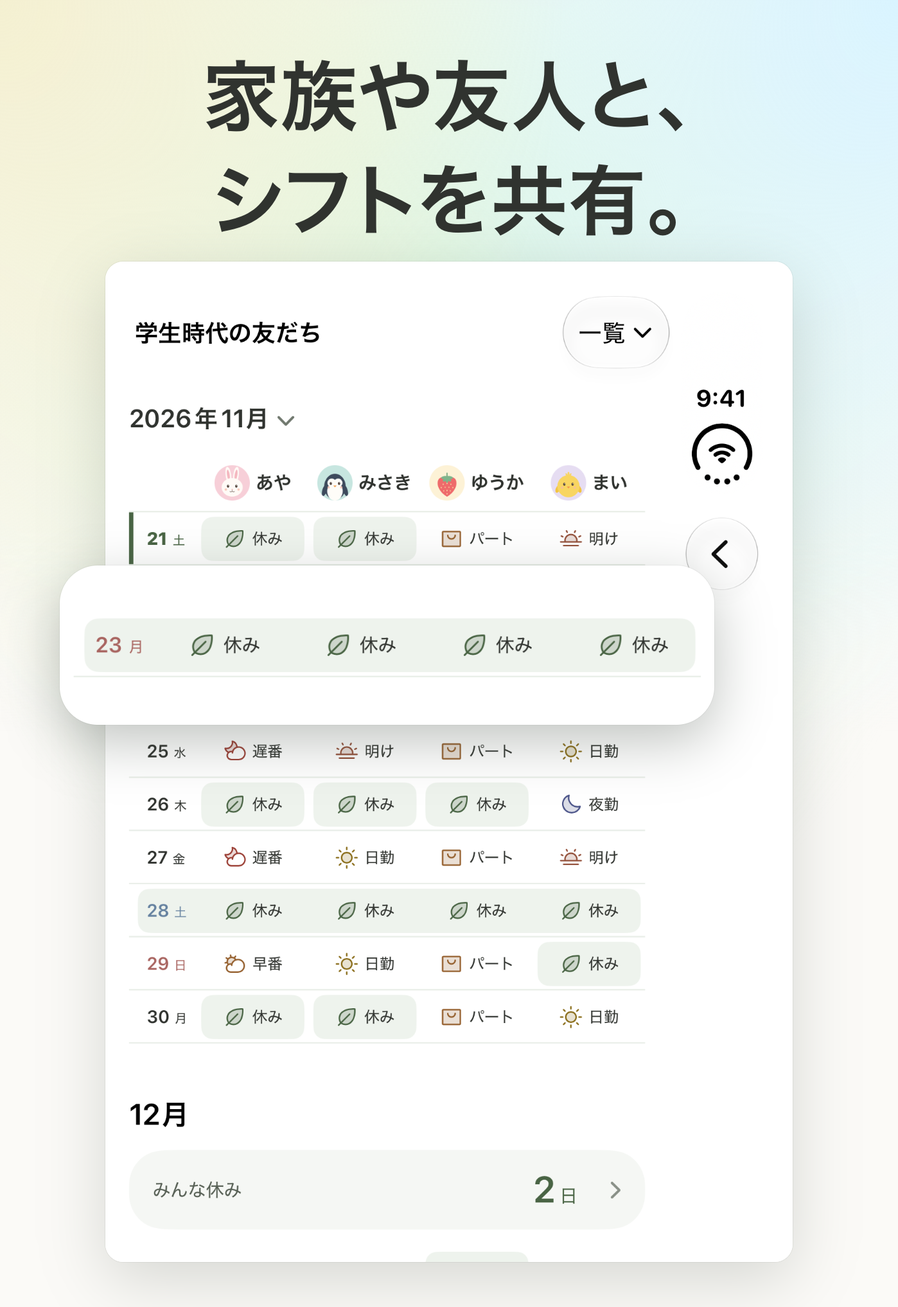
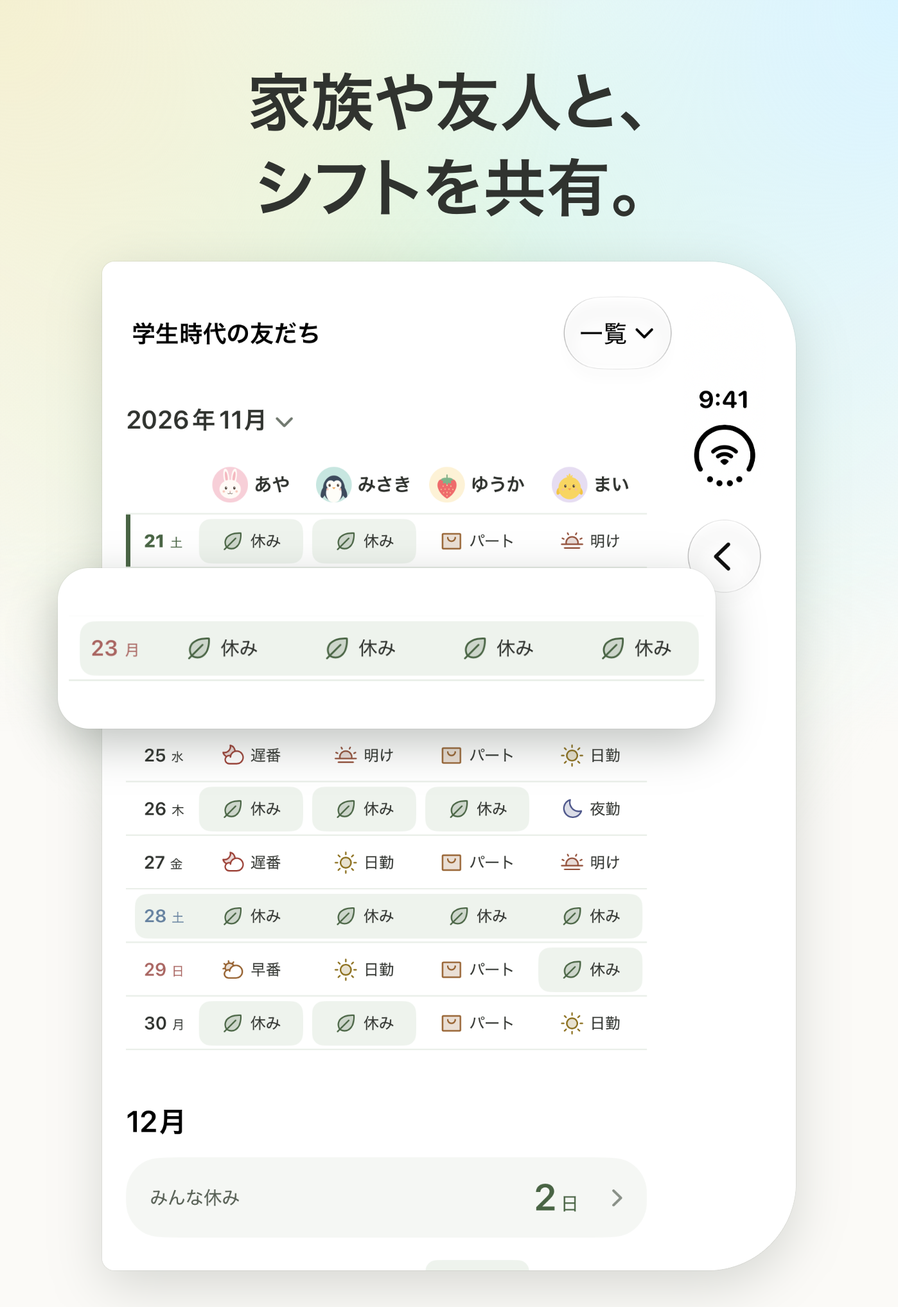
Store: a picture wider than 9:16 takes its unit from its height, and the Duo's outer display its own corners
iPhone Duo's outer display's pictures (1398×2034) took their unit from
their width, so the headline and the tiles' words outgrew a picture far
squatter than a phone's and ran off its side (07, 08). Every picture
wider than 9:16 is now laid out in the units of a 9:16 picture as tall,
as one on its side already was. The outer display is drawn with its own
corners, barely round at the hinge's side and round at the other, fit to
simctl's mask of it.

diff --git a/packages/prototype/src/lib/store-shots.ts b/packages/prototype/src/lib/store-shots.ts
@@ -31,7 +31,8 @@ import type { PresetShift } from "./design-patterns";
 // a part of it stands on a page beside others, with no room to grow.
 // `widgetRow` is how tall a Home Screen's cell is in its widths, by the
 // platform's small widget (Android's SMALL, WidgetParts.kt). `corner` is how round a screen's corners are drawn, in
-// the picture's units (unitOf): an iPhone's and an iPad's own, which the
+// the picture's units (unitOf), one for all four or each from the top
+// leading one around as CSS's border-radius takes them: an iPhone's and an iPad's own, which the
 // status bar keeps clear of, and for Android a card's, as the emulator's
 // screen is square and its clock stands near the corner. A tablet's screen
 // has far smaller corners for its size than a phone's, and the emulator's
@@ -39,7 +40,9 @@ import type { PresetShift } from "./design-patterns";
 // drawn at a tablet's, they clear it, two screens of a pair included.
 // iPhone Duo's outer display has pictures of its own (#1224), folded,
 // upright as a phone is, its bars down its side, the size the App Store
-// asks of it, the display's own pixels. Its inner one has none yet:
+// asks of it, the display's own pixels, its corners its own: barely round
+// at the hinge's side, round at the other (fit to `simctl io screenshot
+// --mask=alpha` of it). Its inner one has none yet:
 // XCUITest cannot drive a Duo open in Xcode 27 (#1267).
 export const STORES = {
   android: {
@@ -62,7 +65,7 @@ export const STORES = {
   },
   "duo-outer": {
     callouts: true,
-    corner: 2,
+    corner: [1.7, 12, 12, 1.7],
     height: 2034,
     screen: { height: 2034, width: 1398 },
     wall: [],
@@ -96,17 +99,18 @@ export type StoreId = keyof typeof STORES;
 
 // How long a picture's unit is, in its pixels, every length of a store's
 // picture but the headline's room being in units: a hundredth of its
-// width, or for a picture on its side, a tablet's, of the width an upright
-// picture as tall would have at 9:16, Google Play's, so that a headline,
-// the room around a screen and the widgets on the wall are as large for
-// its height as in a phone's picture.
+// width, or for a picture wider than 9:16, Google Play's (a tablet's on
+// its side, iPhone Duo's outer display's), of the width a picture as tall
+// would have at 9:16, so that a headline, the room around a screen, the
+// tiles' words and the widgets on the wall are as large for its height as
+// in a phone's picture.
 export const unitOf = ({
   height,
   width,
 }: {
   height: number;
   width: number;
-}): number => (width > height ? (height * 9) / 16 : width) / 100;
+}): number => Math.min(width, (height * 9) / 16) / 100;
 
 // How much of a picture's height its headline may take, with the room
 // around it: Google Play asks that a tagline take no more than about a

diff --git a/apps/design/src/routes/_tool/[_]render/store-shot.tsx b/apps/design/src/routes/_tool/[_]render/store-shot.tsx
@@ -122,6 +122,12 @@ const tilesLie = (
   return { gap: Math.min(TILES.most, left / gaps), wide };
 };
 
+// A store's screen's corners (STORES' `corner`) as CSS's border-radius.
+const radiusOf = (corner: number | readonly number[]) =>
+  (typeof corner === "number" ? [corner] : corner)
+    .map((one) => `calc(var(--u) * ${one})`)
+    .join(" ");
+
 // How wide each of a pair's screens is, in hundredths of the picture's
 // width: upright, and on its side, where two screens on their side take
 // less of its width to lie over each other's corner as an upright pair
@@ -174,9 +180,9 @@ const styles = {
     position: "relative",
   }),
   // A screen as the phone shows it: its corners rounded as its store's
-  // are (--corner), nothing around it.
+  // are (--corner, radiusOf), nothing around it.
   screen: css({
-    borderRadius: "calc(var(--u) * var(--corner))",
+    borderRadius: "var(--corner)",
     boxShadow:
       "0 calc(var(--u) * 2) calc(var(--u) * 7) rgba(60, 70, 60, 0.2), 0 0 0 1px rgba(60, 70, 60, 0.08)",
     display: "block",
@@ -275,7 +281,7 @@ function StoreShotPage() {
       className={styles.root}
       data-store-shot
       style={{
-        "--corner": corner,
+        "--corner": radiusOf(corner),
         "--headline": `${height * HEADLINE_SHARE}px`,
         "--u": `${unitOf({ height, width })}px`,
         height,
@@ -717,7 +723,7 @@ function CardPicturePage({
       className={styles.root}
       data-store-shot
       style={{
-        "--corner": STORES[picture.store].corner,
+        "--corner": radiusOf(STORES[picture.store].corner),
         background: `#${ground}`,
         height,
         width,

diff --git a/AGENTS.md b/AGENTS.md
@@ -14,7 +14,7 @@ Pochical is a monorepo: native SwiftUI (`apps/ios`) and Jetpack Compose (`apps/a
   - ライセンス's list of libraries is generated by each app's build, never checked in (spec/calendar.md, ライセンス): on iOS by LicenseList's build plugin from the resolved Swift packages' checkouts (`PLL_SOURCE_PACKAGES_PATH` names them when `-clonedSourcePackagesDirPath` moves them, as CI's `ios` job does), on Android by AboutLibraries' Gradle plugin into each variant's `res/raw/aboutlibraries.json`, with what the app carries besides its dependencies in `apps/android/app/aboutlibraries/libraries`.
   - Icons: the marks' paths from Phosphor via `pnpm --dir design icon:marks`; the iOS app icons and the widgets' `PeekingPoodle` via `pnpm --dir packages/prototype icon:ios`, and Android's launcher icon (its `mipmap` layers and the background color) and the Play listing's 512-pixel icon (`apps/android/app/src/main/ic_launcher-playstore.png`) and the widgets' `widget_poodle` via `icon:android`, both painting with `scripts/app-icon.ts` as the site icon's `icon:site` does.
   - try's installable app (`apps/try/public/app`): the icons, iOS's launch images and the web app manifest via `pnpm --dir apps/try icon:app` (`scripts/app-assets.ts`), and the manifest's screenshots, the screens `src/lib/app-screenshots.ts` names, via `image:screens`, which photographs the app on a dev server of its own as apps/design's `image:share` photographs the share image, both through `@pochical/prototype`'s `scripts/photograph.ts`. A change to that list runs both.
-  - The stores' pictures (`store/screenshots/<store>`, Google Play's feature graphic, `store/feature-graphic.png`, and the App Store's product page header, `store/product-page-header.png`): the shots, their headlines and each store's size in `@pochical/prototype`'s `lib/store-shots.ts` → `ANDROID_SERIAL=emulator-<port> mise run store:screenshots`. It photographs the real apps' screens into `.build/store-screenshots/<store>`, under the same names on both platforms, each against a server it starts and `tools/store-screenshots/seed.ts` seeds with two groups made by one piece, the coworkers' and a group of friends, each person's photo one of the faces' drawings (`design/src/drawings`) (`store:shots:android`: `StoreScreenshots` on the running emulator `ANDROID_SERIAL` names, never a phone, the widgets drawn there by themselves from the app's own days; `store:shots:ios`: `StoreScreenshotTests` in a simulator of its own and no other, `pochical-store`, an iPhone 18 Pro Max, the run failing when a simulator of the name is another device, the widgets put on its Home Screen; and for a tablet's pictures the same shots on a tablet on its side, where its wide layouts show (#1226): `store:shots:ipad` in its own `pochical-store-ipad`, an iPad Pro 13-inch (M5), the tab bar at the top as the app opens, and `store:shots:android-tablet` on the running tablet's emulator `ANDROID_SERIAL` names, each failing on a device of the other kind, into `.build/store-screenshots/ipad` and `android-tablet`; and for iPhone Duo's outer display (#1224) `store:shots:duo` in its own `pochical-store-duo`, an iPhone Duo, folded with devicehubctl (`tools/store-screenshots/fold.sh`, built from a pinned commit into `.build`, until simctl or XCTest can fold a Duo, #1267; the app the run is started from needs Accessibility access and the screen unlocked, and DeviceHub comes to the front), upright with its bars down its side, into `duo-outer`, its inner display having none until XCUITest can drive a Duo open, #1267), then draws each on the site's sky under its headline (`store:images`: apps/design's `image:store`, which photographs `/_render/store-shot` as `image:share` does the share image, for each store whose screens are there). The seed runs beside the capture: it makes the groups, writes their invitations, and writes the coworkers' chat only once the person photographed has joined, so the chat says every joining above its lines, and more lines than a screen holds keep them out of the picture, among them two photographs sent at once (`tools/store-screenshots/photos`, whose README names where each is from; a JPEG put there under the same name is sent in its place); the capture reads the chat to its latest line, opens it again, and photographs it there. The status bar says 9:41 in every picture, whenever the run is, and the chat's lines the time they were written; Android's is SystemUI's demo, entered once the emulator is on its Wi-Fi, as one entered in the seconds after a boot shows a second Wi-Fi icon to its end. Every look is set through the app's own settings: a raw file or folder named `-sumi` is in black and white (テーマ 墨, シフトの色 ワントーン, シフトの見た目 線, 休みの見せ方 印だけ, 色をつける日 off; the month's own picture with 月と曜日 英語, the widgets 日本語), one named `-letters` has the shifts as letters (シフトの見た目 文字, in the テーマ the app starts in), the rest as the app starts. The wall of widgets is placed by hand (the shot's `tiles`: which widget, in which look, in which cell of `WALL`; a store's own over them, its `wall`, an iPad's extra large カレンダー), from every kind at each size it has for a Home Screen but one that takes a whole page of it (the iPhone's upright extra large), those that can be set to someone set to a person and to the group too, and those today's shift changes on each of the sample's (a day off, 日勤, 夜勤, 明け: the capture enters it for today in ポチポチ入力 and photographs them in both looks before it enters the next), in the app's look and in 墨: medium and large widgets carry it, small ones are its accents. 次の休み counting to a day off, 次の休み on a day off and いまのシフト are marked `whole` and stand together where the eye lands, whole in each store's picture and in what every picture drawn from the wall shows on every device; no picture is beside itself. Entering a shift takes a day's own hours off it (早出, 残業) and 夜勤 gives the day after its 明け, and nothing is put back: every picture of the month is taken before the widgets, ポチポチ入力's among them, whose days taken out are entered again by the tray's keys and the month checked to say what it did before; the widgets' shifts go in the order that leaves each the days it shows as the sample has them. いまのシフト draws its ring only while a shift is on, so after the widgets a run enters one of the sample's shifts that is on at that hour and photographs that widget again, in the app's look, once it says the shift is on (before 9:00 that shift is the day before's 夜勤, which the month's page has no day for on the 1st: the run is not started then, and says to run from 9:00). A widget is photographed once it says the days it is to show (iOS; Android draws it from what the app holds then), and a run fails when a widget asked for is not there, when the seed's last checks fail, when the port already has a server, or when the emulator's settings are not all put back. The friends' group is joined as まい with ひよこ picked for a face, in place of the drawing a new person is given at random, and the coworkers' as 佐藤, there alone. A shot of one screen may lift the part its headline is about (its `callout`): the capture measures that part by its element, and every piece of the screen that says something, into `<raw>.json` (on Android as Compose lays them out, the accessibility tree giving a button smaller than a finger the larger place it takes touches in), and the picture draws the part again, larger (as large as keeps a row as wide as the screen inside the picture and the card as far over the phone's foot as the phone is over the picture's, 1.35 times at most), on a card over the phone that starts where the part does and grows down from there, what leads to the part left in sight over it; a piece the card would lie over a part of, on any side, it takes in whole, so nothing shows cut beside it, and the part is drawn in the card's middle, whole lines of the screen with their own room. The friends' table lifts the days everyone is off, the chat its poll's line with the line that asks for it, 端末カレンダーに追加 its 自動で反映. The details' shot and the cares' are three tiles each, within where a phone is under the headline, the room they leave shared evenly between them up to the most a gap may be and the rest left over and under them alike, a tile a card of the picture's with room inside it, on the ground of what it holds: a part of a screen its platform's UI test cuts at whole rows, from the top of one of the screen's own pieces to the foot of another, as wide as the page or the month's week it is of (the screen on a phone), or pieces the page draws from the app's own marks, larger than a screen has them, with words and lines of the picture's that say what happens (the shot's `pieces`). Each tile holds only what makes its point. A part's file is named for what it is (`tile-<what>.png`), not for the shot it is in. The details', how a roster itself is: two weeks of 繰り返しを直す on a fixed cycle, a run's last step but one as it changes the job, to the ready-made 当番・非番・休み from next month's 1st, 当番 and 休み then named 当務 and 週休; the first week of a page of a シフトの期間 from the 15th under its heading, set in 設定 and put back; and a day of 早出 and one of 残業 with their marks' corners named, drawn. The cares', what the app does for the person: 夜勤's key pressed and the two days it fills, the second the app's doing, drawn; リマインド's reminder of the evening before, the next notification as its page draws it, before anything is changed; and グループの設定's rows of a group with an end, 忘年会, made in グループを作る with the day 終了日をつける offers, a run's very last step as it leaves a group. The same run draws the cards the site's top page ends on, the list `CARD_PICTURES`: each a picture of raw captures laid where the list says (the two looks of the month in their frames, 自動で反映 with its note and button, two weeks of 繰り返し, the evening before's reminder), into `packages/prototype/src/assets`. The wall is drawn in other pictures too, the list `WALL_PICTURES`: each its name, size, file, the store whose widgets it shows, where the wall lies in it (`lie`, as in a store's picture without), the line it carries (`line`, the wall clearing to the sky around it, none without) and the part of it every device shows (`safe`, which holds the line and the widgets marked `whole`, anywhere without). The App Store's product page header is the first: the wall across 3840×1646, the site's line beside the three widgets, both inside the art safe area measured from Apple's template. Google Play's feature graphic is the second, of Android's widgets: the wall across 1024×500 at twice the header's size for its width, so a widget's shapes read as narrow as a phone shows it, the line and the three widgets clear of 8 hundredths of each side, which Play cuts or covers in places. A picture on its side, a tablet's, is laid out in the units of an upright picture as tall (`unitOf`), so its headline and the room around its screen are as large for its height as a phone's, its tiles as wide as its screen at most, its wall laid side by side as often as covers it, the widgets marked `whole` those of the copy in the middle, and no callout: its screen is drawn large enough to read, and a part of it stands on a page beside others with no room to grow. A change to that page or to a headline runs `store:images` alone, the screens still in `.build`; a change to an app's screens runs its `store:shots:*` and `store:images`.
+  - The stores' pictures (`store/screenshots/<store>`, Google Play's feature graphic, `store/feature-graphic.png`, and the App Store's product page header, `store/product-page-header.png`): the shots, their headlines and each store's size in `@pochical/prototype`'s `lib/store-shots.ts` → `ANDROID_SERIAL=emulator-<port> mise run store:screenshots`. It photographs the real apps' screens into `.build/store-screenshots/<store>`, under the same names on both platforms, each against a server it starts and `tools/store-screenshots/seed.ts` seeds with two groups made by one piece, the coworkers' and a group of friends, each person's photo one of the faces' drawings (`design/src/drawings`) (`store:shots:android`: `StoreScreenshots` on the running emulator `ANDROID_SERIAL` names, never a phone, the widgets drawn there by themselves from the app's own days; `store:shots:ios`: `StoreScreenshotTests` in a simulator of its own and no other, `pochical-store`, an iPhone 18 Pro Max, the run failing when a simulator of the name is another device, the widgets put on its Home Screen; and for a tablet's pictures the same shots on a tablet on its side, where its wide layouts show (#1226): `store:shots:ipad` in its own `pochical-store-ipad`, an iPad Pro 13-inch (M5), the tab bar at the top as the app opens, and `store:shots:android-tablet` on the running tablet's emulator `ANDROID_SERIAL` names, each failing on a device of the other kind, into `.build/store-screenshots/ipad` and `android-tablet`; and for iPhone Duo's outer display (#1224) `store:shots:duo` in its own `pochical-store-duo`, an iPhone Duo, folded with devicehubctl (`tools/store-screenshots/fold.sh`, built from a pinned commit into `.build`, until simctl or XCTest can fold a Duo, #1267; the app the run is started from needs Accessibility access and the screen unlocked, and DeviceHub comes to the front), upright with its bars down its side, into `duo-outer`, its inner display having none until XCUITest can drive a Duo open, #1267), then draws each on the site's sky under its headline (`store:images`: apps/design's `image:store`, which photographs `/_render/store-shot` as `image:share` does the share image, for each store whose screens are there). The seed runs beside the capture: it makes the groups, writes their invitations, and writes the coworkers' chat only once the person photographed has joined, so the chat says every joining above its lines, and more lines than a screen holds keep them out of the picture, among them two photographs sent at once (`tools/store-screenshots/photos`, whose README names where each is from; a JPEG put there under the same name is sent in its place); the capture reads the chat to its latest line, opens it again, and photographs it there. The status bar says 9:41 in every picture, whenever the run is, and the chat's lines the time they were written; Android's is SystemUI's demo, entered once the emulator is on its Wi-Fi, as one entered in the seconds after a boot shows a second Wi-Fi icon to its end. Every look is set through the app's own settings: a raw file or folder named `-sumi` is in black and white (テーマ 墨, シフトの色 ワントーン, シフトの見た目 線, 休みの見せ方 印だけ, 色をつける日 off; the month's own picture with 月と曜日 英語, the widgets 日本語), one named `-letters` has the shifts as letters (シフトの見た目 文字, in the テーマ the app starts in), the rest as the app starts. The wall of widgets is placed by hand (the shot's `tiles`: which widget, in which look, in which cell of `WALL`; a store's own over them, its `wall`, an iPad's extra large カレンダー), from every kind at each size it has for a Home Screen but one that takes a whole page of it (the iPhone's upright extra large), those that can be set to someone set to a person and to the group too, and those today's shift changes on each of the sample's (a day off, 日勤, 夜勤, 明け: the capture enters it for today in ポチポチ入力 and photographs them in both looks before it enters the next), in the app's look and in 墨: medium and large widgets carry it, small ones are its accents. 次の休み counting to a day off, 次の休み on a day off and いまのシフト are marked `whole` and stand together where the eye lands, whole in each store's picture and in what every picture drawn from the wall shows on every device; no picture is beside itself. Entering a shift takes a day's own hours off it (早出, 残業) and 夜勤 gives the day after its 明け, and nothing is put back: every picture of the month is taken before the widgets, ポチポチ入力's among them, whose days taken out are entered again by the tray's keys and the month checked to say what it did before; the widgets' shifts go in the order that leaves each the days it shows as the sample has them. いまのシフト draws its ring only while a shift is on, so after the widgets a run enters one of the sample's shifts that is on at that hour and photographs that widget again, in the app's look, once it says the shift is on (before 9:00 that shift is the day before's 夜勤, which the month's page has no day for on the 1st: the run is not started then, and says to run from 9:00). A widget is photographed once it says the days it is to show (iOS; Android draws it from what the app holds then), and a run fails when a widget asked for is not there, when the seed's last checks fail, when the port already has a server, or when the emulator's settings are not all put back. The friends' group is joined as まい with ひよこ picked for a face, in place of the drawing a new person is given at random, and the coworkers' as 佐藤, there alone. A shot of one screen may lift the part its headline is about (its `callout`): the capture measures that part by its element, and every piece of the screen that says something, into `<raw>.json` (on Android as Compose lays them out, the accessibility tree giving a button smaller than a finger the larger place it takes touches in), and the picture draws the part again, larger (as large as keeps a row as wide as the screen inside the picture and the card as far over the phone's foot as the phone is over the picture's, 1.35 times at most), on a card over the phone that starts where the part does and grows down from there, what leads to the part left in sight over it; a piece the card would lie over a part of, on any side, it takes in whole, so nothing shows cut beside it, and the part is drawn in the card's middle, whole lines of the screen with their own room. The friends' table lifts the days everyone is off, the chat its poll's line with the line that asks for it, 端末カレンダーに追加 its 自動で反映. The details' shot and the cares' are three tiles each, within where a phone is under the headline, the room they leave shared evenly between them up to the most a gap may be and the rest left over and under them alike, a tile a card of the picture's with room inside it, on the ground of what it holds: a part of a screen its platform's UI test cuts at whole rows, from the top of one of the screen's own pieces to the foot of another, as wide as the page or the month's week it is of (the screen on a phone), or pieces the page draws from the app's own marks, larger than a screen has them, with words and lines of the picture's that say what happens (the shot's `pieces`). Each tile holds only what makes its point. A part's file is named for what it is (`tile-<what>.png`), not for the shot it is in. The details', how a roster itself is: two weeks of 繰り返しを直す on a fixed cycle, a run's last step but one as it changes the job, to the ready-made 当番・非番・休み from next month's 1st, 当番 and 休み then named 当務 and 週休; the first week of a page of a シフトの期間 from the 15th under its heading, set in 設定 and put back; and a day of 早出 and one of 残業 with their marks' corners named, drawn. The cares', what the app does for the person: 夜勤's key pressed and the two days it fills, the second the app's doing, drawn; リマインド's reminder of the evening before, the next notification as its page draws it, before anything is changed; and グループの設定's rows of a group with an end, 忘年会, made in グループを作る with the day 終了日をつける offers, a run's very last step as it leaves a group. The same run draws the cards the site's top page ends on, the list `CARD_PICTURES`: each a picture of raw captures laid where the list says (the two looks of the month in their frames, 自動で反映 with its note and button, two weeks of 繰り返し, the evening before's reminder), into `packages/prototype/src/assets`. The wall is drawn in other pictures too, the list `WALL_PICTURES`: each its name, size, file, the store whose widgets it shows, where the wall lies in it (`lie`, as in a store's picture without), the line it carries (`line`, the wall clearing to the sky around it, none without) and the part of it every device shows (`safe`, which holds the line and the widgets marked `whole`, anywhere without). The App Store's product page header is the first: the wall across 3840×1646, the site's line beside the three widgets, both inside the art safe area measured from Apple's template. Google Play's feature graphic is the second, of Android's widgets: the wall across 1024×500 at twice the header's size for its width, so a widget's shapes read as narrow as a phone shows it, the line and the three widgets clear of 8 hundredths of each side, which Play cuts or covers in places. A picture wider than 9:16, a tablet's on its side or iPhone Duo's outer display's, is laid out in the units of a 9:16 picture as tall (`unitOf`), so its headline, the room around its screen and its tiles' words are as large for its height as a phone's; a picture on its side has its tiles as wide as its screen at most, its wall laid side by side as often as covers it, the widgets marked `whole` those of the copy in the middle, and no callout: its screen is drawn large enough to read, and a part of it stands on a page beside others with no room to grow. A change to that page or to a headline runs `store:images` alone, the screens still in `.build`; a change to an app's screens runs its `store:shots:*` and `store:images`.
   - Workers' types: each Worker's `wrangler.jsonc` and the wrangler in `pnpm-lock.yaml`, with the workerd it pins → `mise run gen:worker-types`, which runs every workspace's `cf-typegen` (into `worker-configuration.d.ts` in `apps/server`, `apps/admin` and `apps/web`). A wrangler bump regenerates them too; CI runs `mise run worker-types:check`. A Worker with a `cf-typegen` and no secrets still declares `"secrets": { "required": [] }`, so its types never come from a computer's `.dev.vars` or `.env`.
   - SQL schemas are Drizzle and their migrations are generated, never written: D1 `apps/server/src/db/schema.ts` (`mise run db:generate -- --name <what>`; better-auth's tables via `mise run auth:schema` first), the Group DO `group-do-schema.ts` (`mise run group-do:generate`), the User DO `user-do-schema.ts` (`mise run user-do:generate`). CI runs `mise run db:check`.
 - The stores' listings are in `store/` (`store/README.md`): the texts of the App Store and Google Play, and the answers to their forms (`declarations.md`), entered into App Store Connect and Play Console by hand. `apps/design`'s tests hold each text to its store's limit; an answer changes in the PR that changes what the app does.
